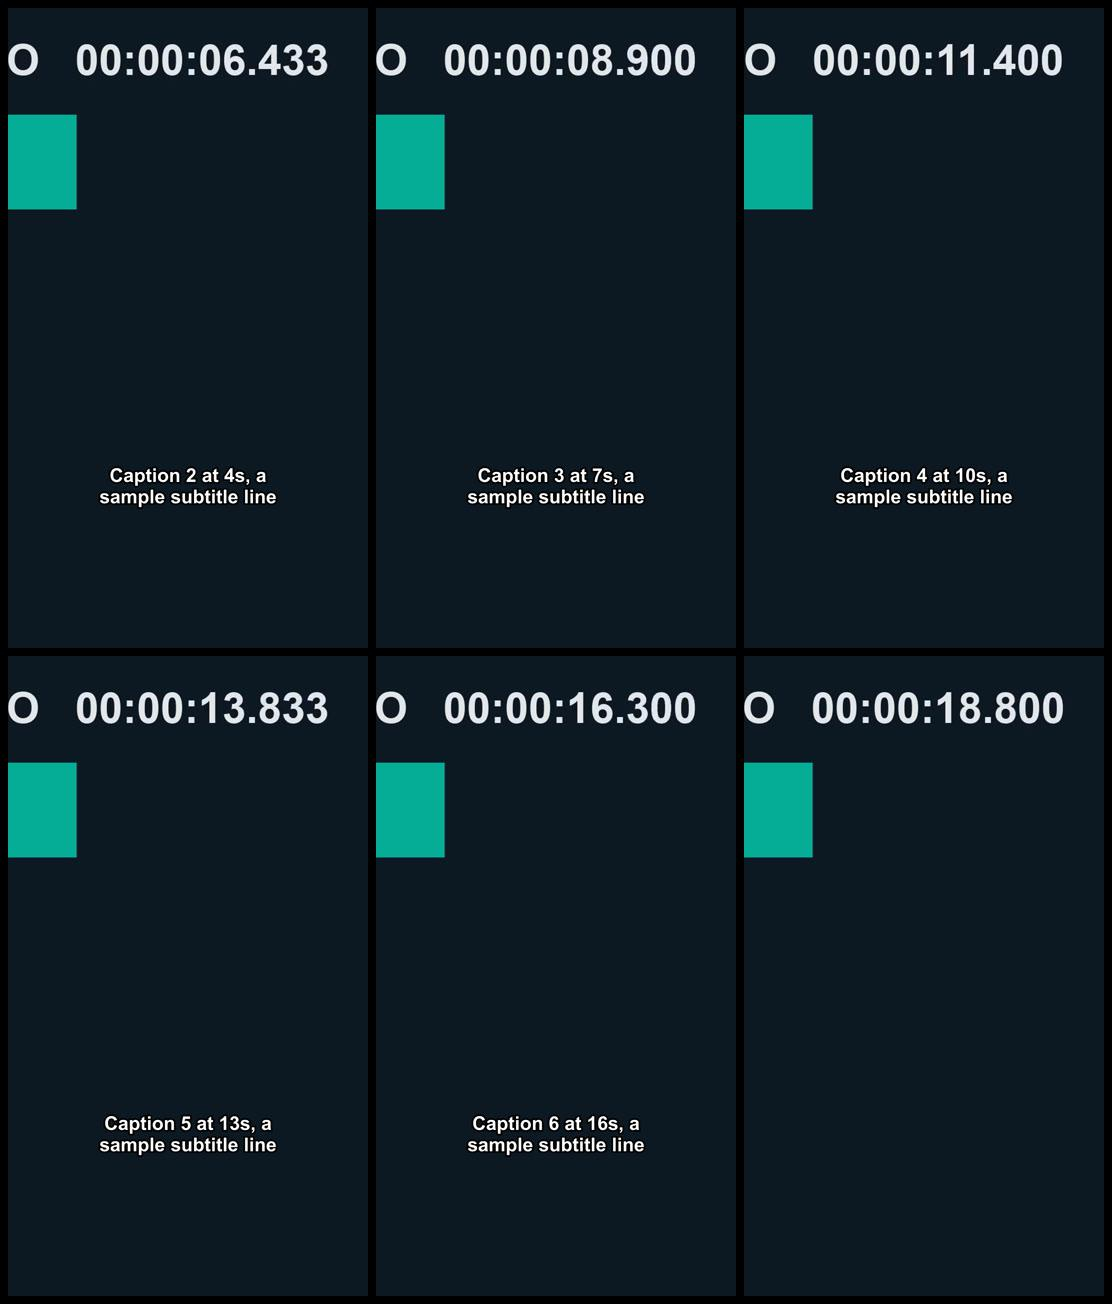
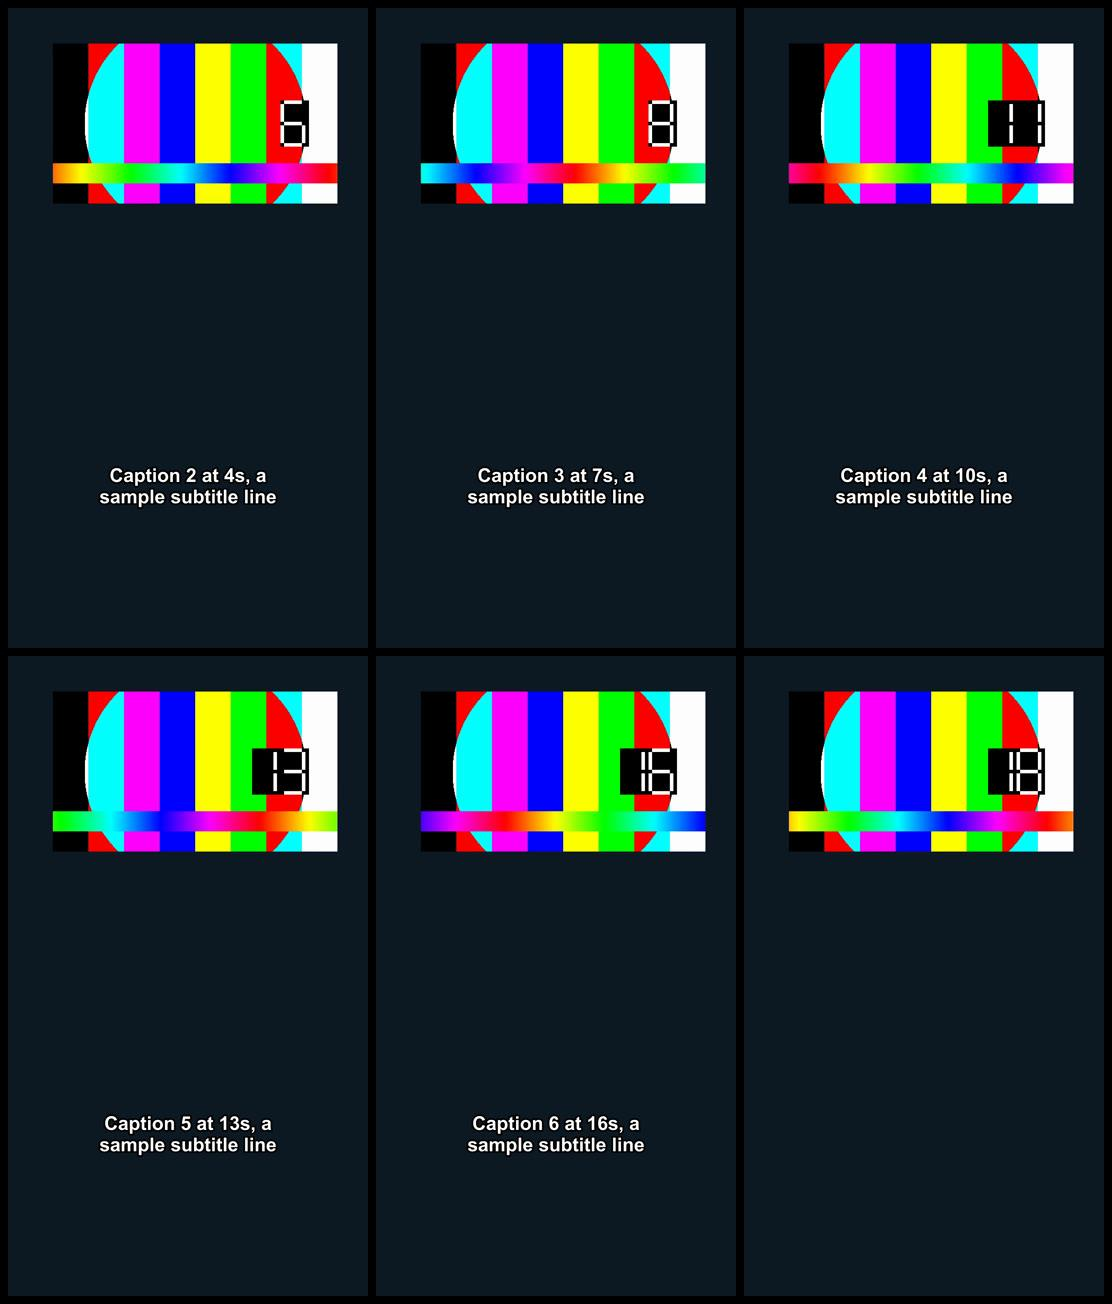
Sample: per-frame motion without drawtext (testsrc overlay) so frame-accuracy checks work on Homebrew ffmpeg

diff --git a/make_sample.py b/make_sample.py
@@ -30,17 +30,21 @@ def ts(sec: float) -> str:
 
 def main() -> None:
     OUT.mkdir(exist_ok=True)
-    video = (
-        f"color=c=0x101826:s=1920x1080:r=30:d={DURATION},format=yuv420p,"
-        "drawbox=x='mod(t*240,1920)':y=420:w=220:h=220:color=0x3b82f6@0.9:t=fill,"
-        "drawbox=x='1700-mod(t*180,1700)':y=180:w=160:h=160:color=0x14b8a6@0.9:t=fill"
-    )
+    bg = (f"color=c=0x101826:s=1920x1080:r=30:d={DURATION},format=yuv420p,"
+          "drawbox=x=1660:y=420:w=220:h=220:color=0x3b82f6@0.9:t=fill,"
+          "drawbox=x=300:y=380:w=160:h=160:color=0x14b8a6@0.9:t=fill")
+    # testsrc: ffmpeg's built-in pattern with a moving element and a frame counter, drawn without freetype, so every
+    # frame differs on every ffmpeg build. Kept in the upper area, away from the caption band.
+    pattern = f"testsrc=size=480x270:rate=30:duration={DURATION}"
+    graph = "[0:v][1:v]overlay=1060:60"
     if has_filter("drawtext") and default_font():  # Homebrew ffmpeg on macOS has no drawtext
-        video += (f",drawtext=fontfile='{esc(default_font())}':text='SYNTHETIC DEMO  %{{pts\\:hms}}':"
-                  "x=(w-text_w)/2:y=60:fontsize=72:fontcolor=0xe5e7eb")
+        graph += (f",drawtext=fontfile='{esc(default_font())}':text='SYNTHETIC DEMO  %{{pts\\:hms}}':"
+                  "x=80:y=60:fontsize=56:fontcolor=0xe5e7eb")
+    graph += "[v]"
     audio = f"sine=frequency=330:sample_rate=48000:duration={DURATION},volume=0.035"
     subprocess.run(["ffmpeg", "-hide_banner", "-loglevel", "error", "-y",
-                    "-f", "lavfi", "-i", video, "-f", "lavfi", "-i", audio,
+                    "-f", "lavfi", "-i", bg, "-f", "lavfi", "-i", pattern, "-f", "lavfi", "-i", audio,
+                    "-filter_complex", graph, "-map", "[v]", "-map", "2:a",
                     "-c:v", "libx264", "-preset", "veryfast", "-crf", "20", "-c:a", "aac", "-b:a", "128k",
                     "-shortest", str(OUT / "source_16x9.mp4")], check=True)
 

diff --git a/verify.py b/verify.py
@@ -112,7 +112,7 @@ def main(out_dir: str, sample_dir: str) -> int:
         diffs = {k: float(np.abs(first - frame(src, (n0 + k - 0.5) * frame_s, vf).astype(np.int16))[:CAP_TOP].mean())
                  for k in (-1, 0, 1)}
         check(f"{name}: first frame = source frame at start (frame-accurate)", min(diffs, key=diffs.get) == 0,
-              ", ".join(f"{k:+d}f:{d:.2f}" for k, d in diffs.items()))
+              ", ".join(f"{k:+d}f:{d:.4f}" for k, d in diffs.items()))
         check(f"{name}: contact sheet exists", (out / f"{name}_contact.jpg").stat().st_size > 10_000)
 
     passed = all(ok for _, ok, _ in results)
